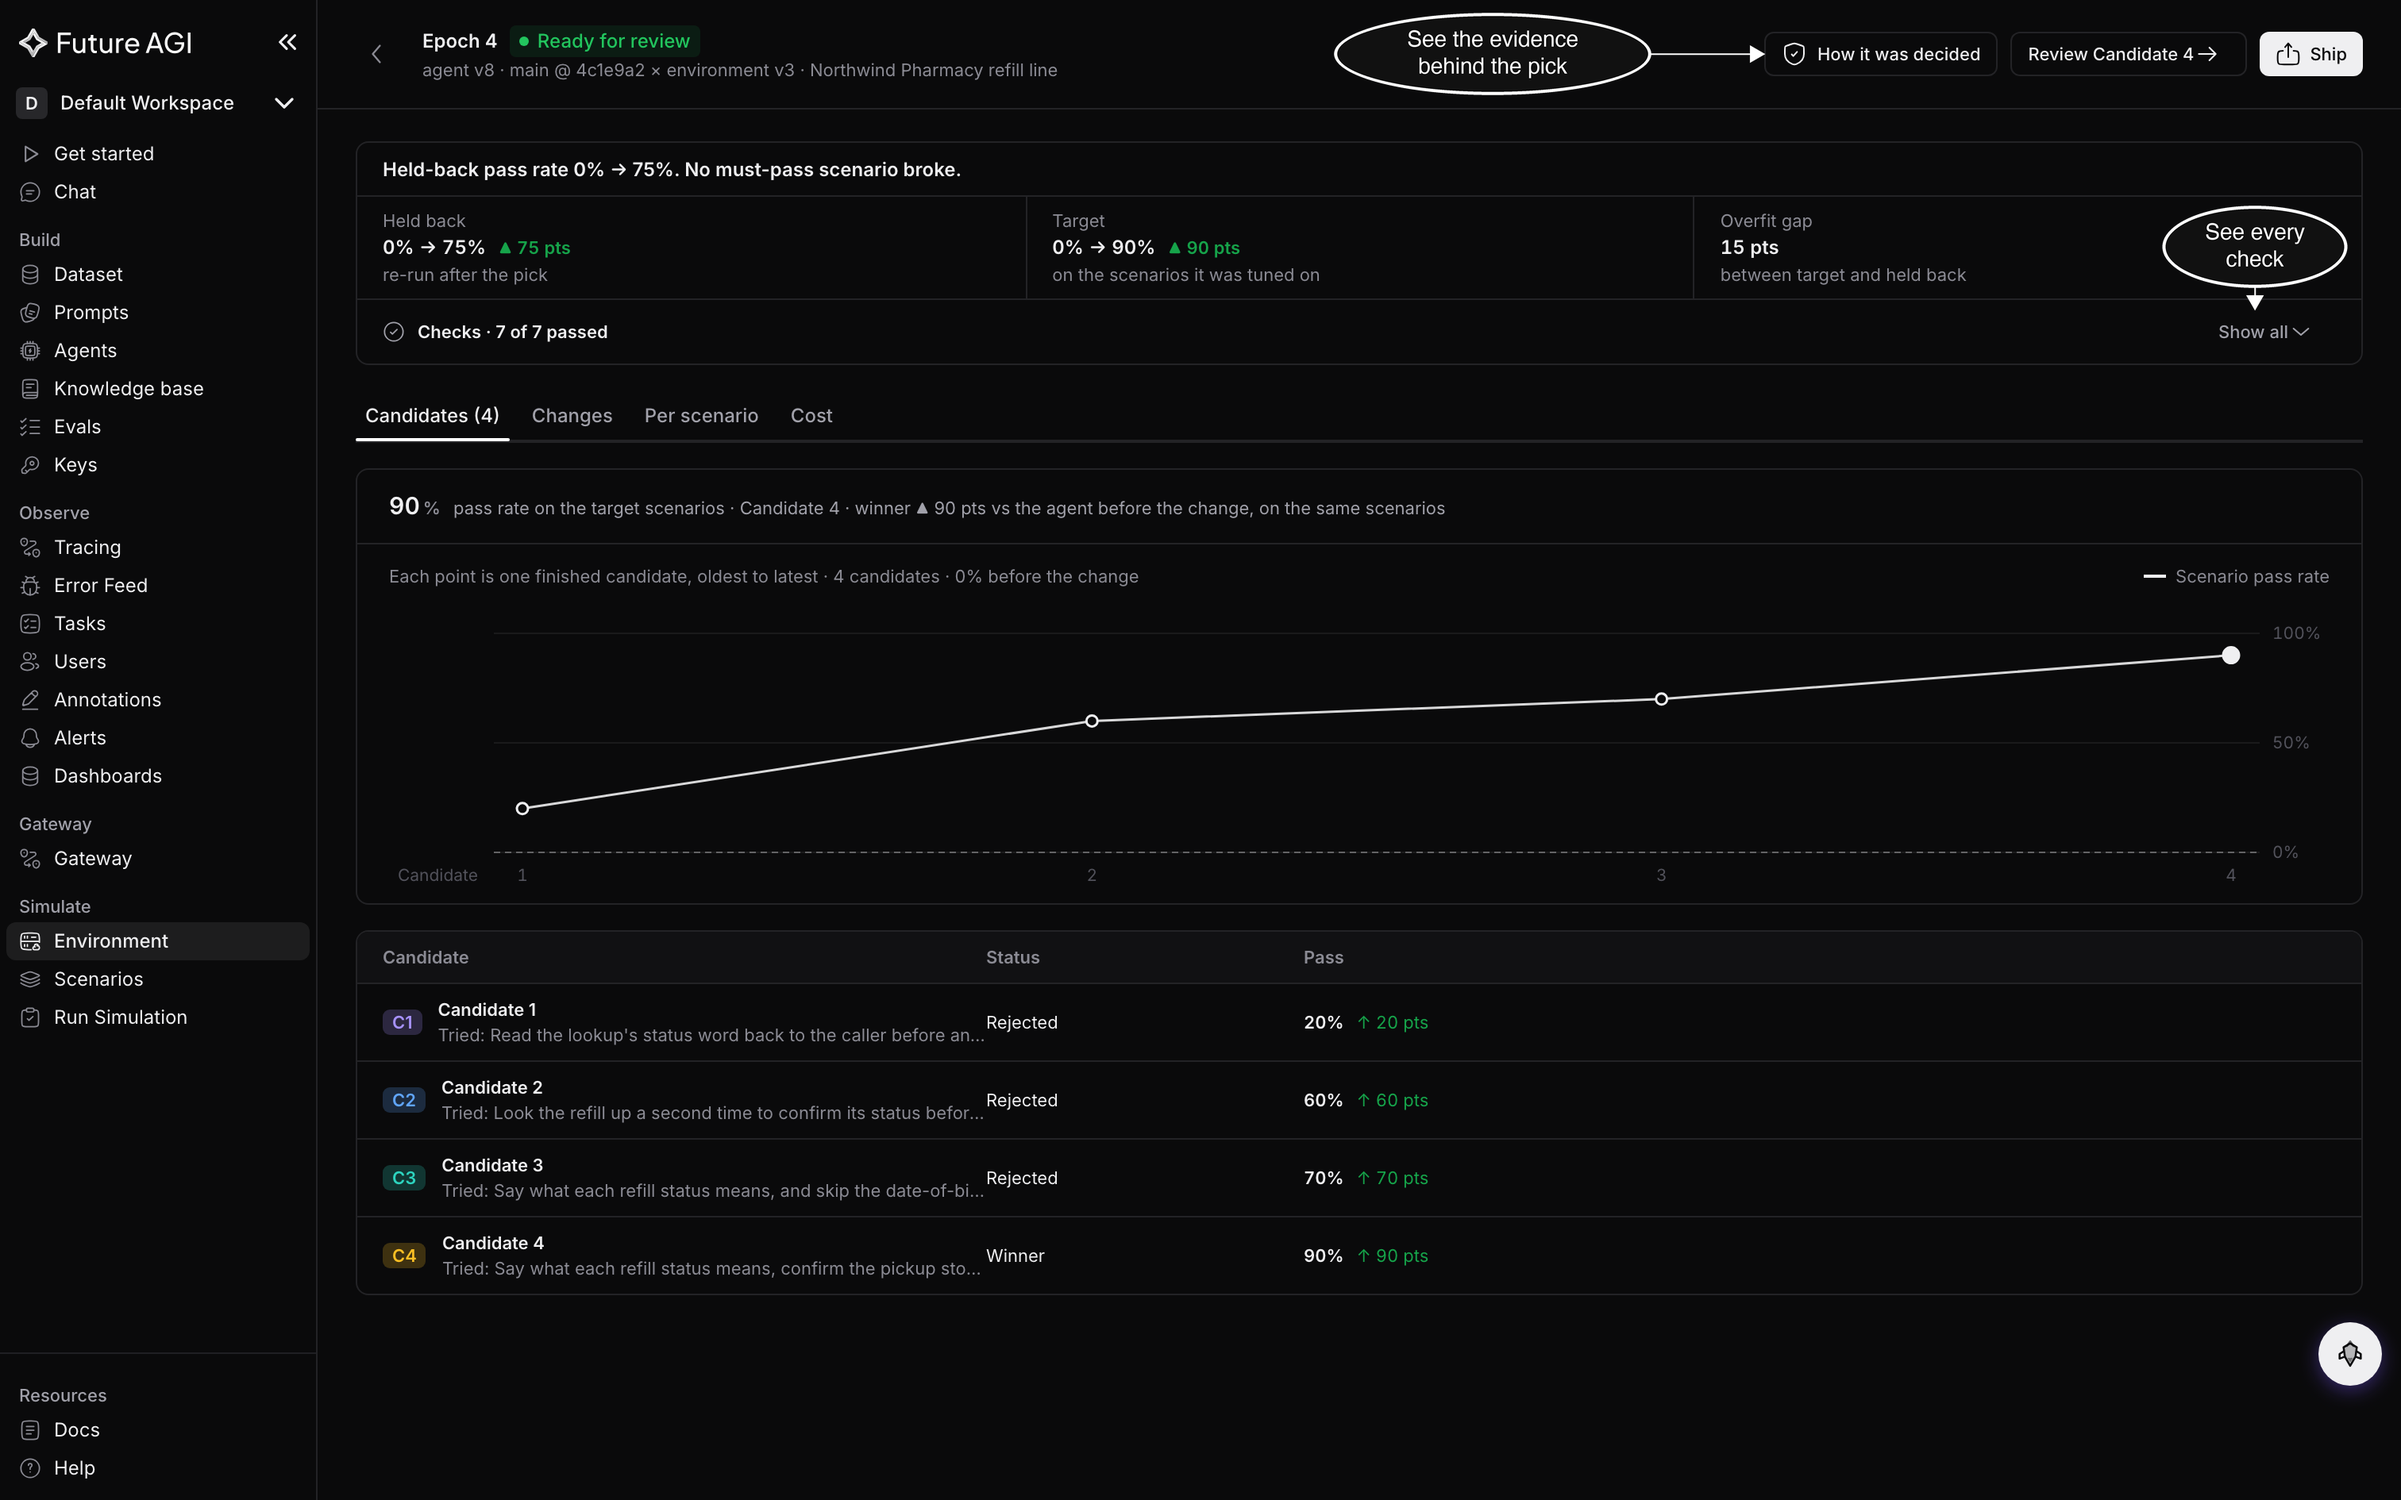
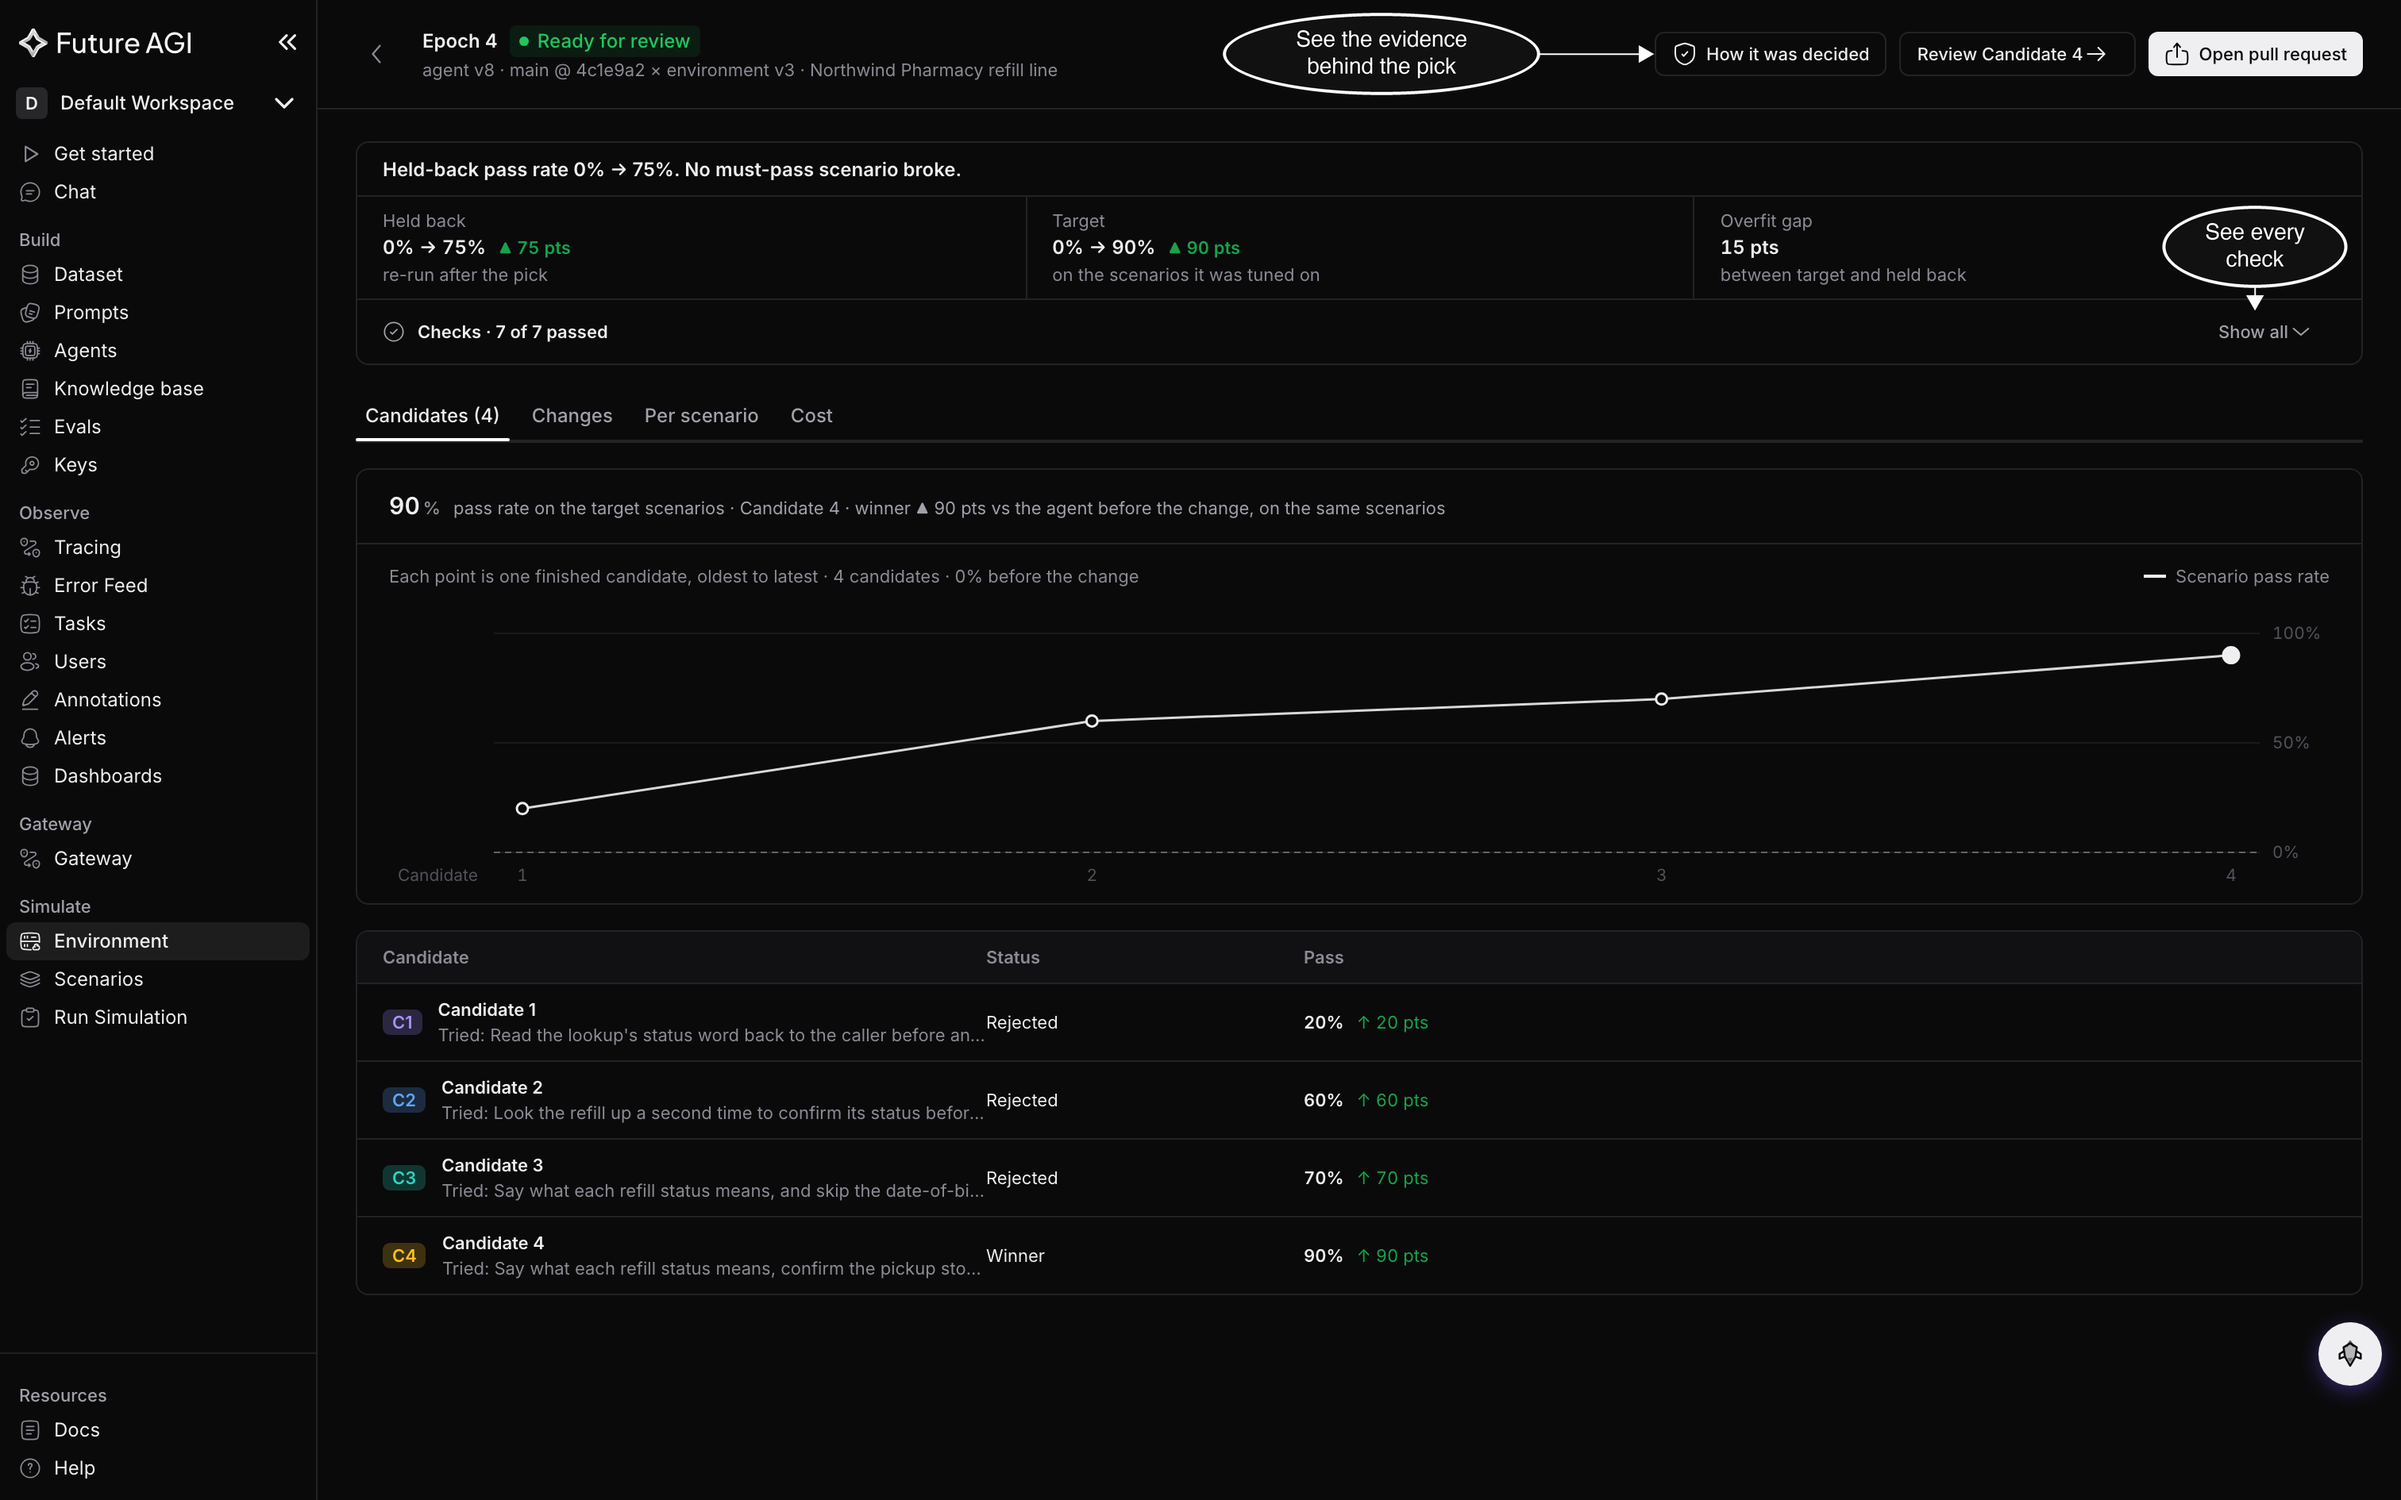
docs(error-feed): run Epoch from an issue, and the Root cause tab's stored analysis
New guide Run Epoch from an issue (future-agi#4249, #4250). Root cause replaces the Fix tab, with Likely cause, Suggested change and Wrong if, and Export gains Traces and Analysis (future-agi#4251). Review an epoch follows #4250's Open pull request and Make default buttons. Captures from the #4250 + #4251 frontend on a mocked API.

Changed region(s): [[0.5284, 0.0, 0.9636, 0.0624]]

diff --git a/src/lib/navigation.ts b/src/lib/navigation.ts
@@ -353,6 +353,7 @@ export const tabNavigation: NavTab[] = [
               { title: 'Triage issues', href: '/docs/error-feed/guides/triage-issues' },
               { title: 'Investigate an issue', href: '/docs/error-feed/guides/investigate-an-issue' },
               { title: 'Run a root cause analysis', href: '/docs/error-feed/guides/run-root-cause-analysis' },
+              { title: 'Run Epoch from an issue', href: '/docs/error-feed/guides/run-epoch-from-an-issue' },
               { title: 'Create a Linear issue', href: '/docs/error-feed/guides/create-linear-issue' },
             ]
           },
